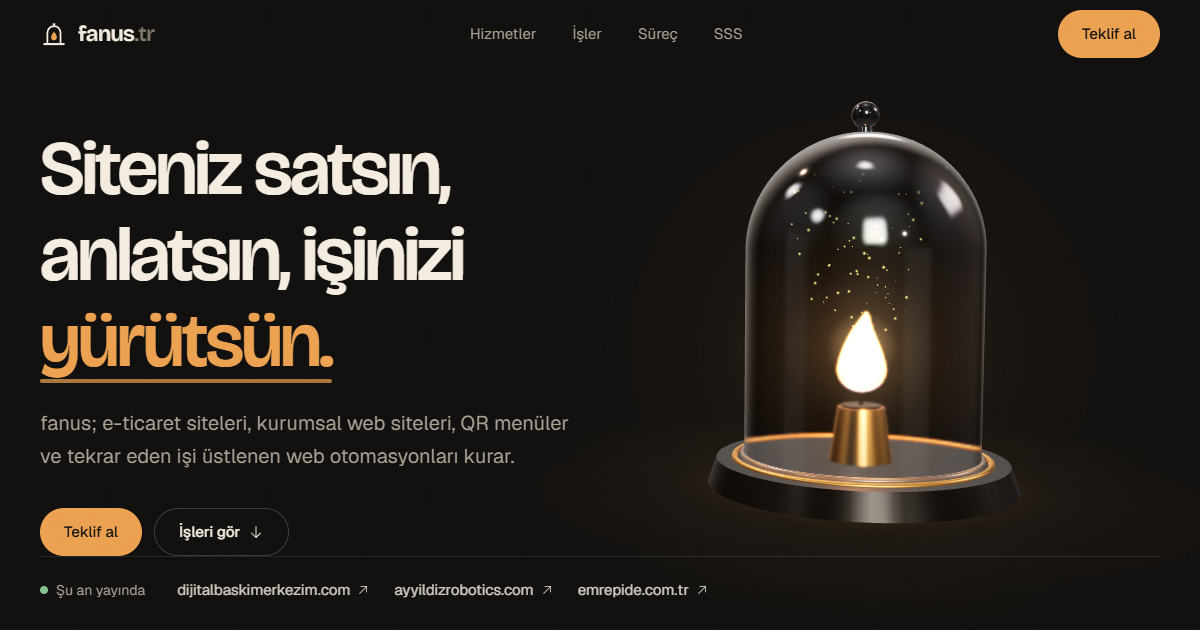
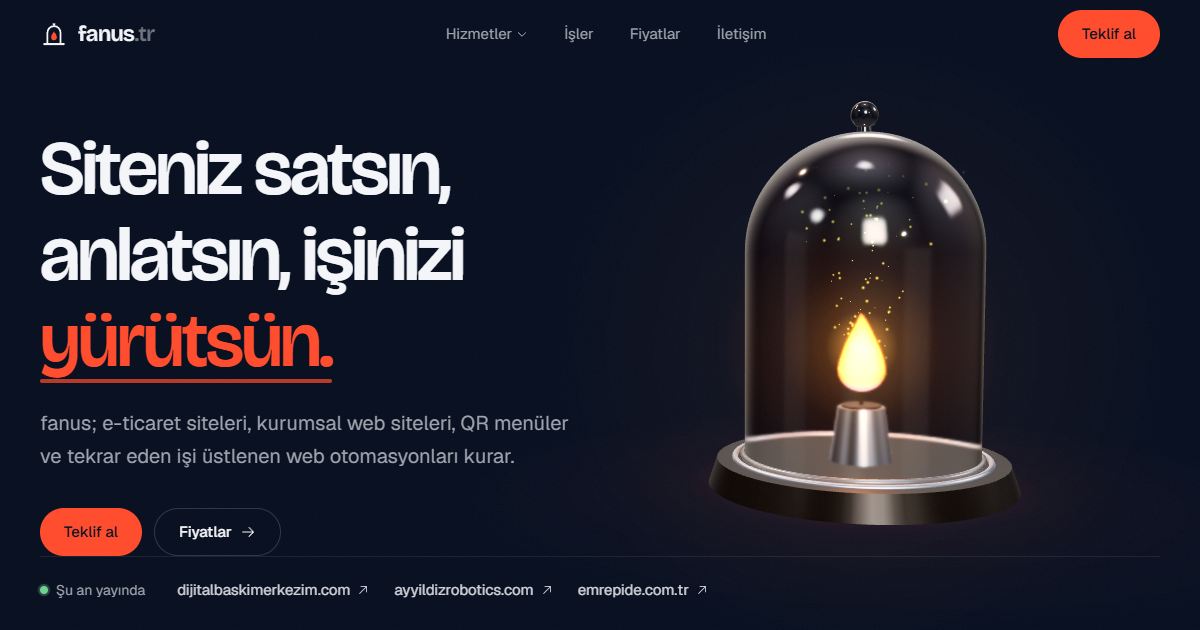
Tema D varsayılan: koyu lacivert + kor kırmızısı; ikon ve paylaşım görseli yeni renklerle

diff --git a/src/site/tema.ts b/src/site/tema.ts
@@ -1,4 +1,5 @@
-// Renk teması denemesi (20 Ekim 2026). Karar verilince VARSAYILAN_TEMA ona çekilir, seçici kapanır.
+// Renk temaları. Seçilen (20 Ekim 2026): D, koyu lacivert zemin + kor kırmızısı, nötr grafit kartlar.
+// Diğerleri yalnız geliştirmedeki seçicide karşılaştırma için durur.
 
 export const TEMALAR = [
   { kod: "eski", ad: "Eski (kahve)", zemin: "#0d0c0b", vurgu: "#eba04e" },
@@ -11,7 +12,7 @@ export const TEMALAR = [
 export type TemaKodu = (typeof TEMALAR)[number]["kod"];
 
 /** Sitede kullanılan tema (seçici kapalıyken herkes bunu görür). */
-export const VARSAYILAN_TEMA: TemaKodu = "eski";
+export const VARSAYILAN_TEMA: TemaKodu = "lacivert-kor";
 
 /** Tema seçici yalnız geliştirmede ya da NEXT_PUBLIC_TEMA_SECICI=1 iken görünür. */
 export const TEMA_SECICI_ACIK = process.env.NODE_ENV === "development" || process.env.NEXT_PUBLIC_TEMA_SECICI === "1";

diff --git a/src/app/layout.tsx b/src/app/layout.tsx
@@ -37,7 +37,7 @@ export const metadata: Metadata = {
 };
 
 export const viewport: Viewport = {
-  themeColor: "#0d0c0b",
+  themeColor: "#050d1e",
   colorScheme: "dark",
 };
 

diff --git a/docs/tasarim-dili.md b/docs/tasarim-dili.md
@@ -8,15 +8,24 @@ Fanus, alevi rüzgârdan koruyan camdır. İşletmenin ışığı (emeği) inter
 büyütür, uzaktan görünür kılar. Görsel dil buradan gelir: koyu zemin, sıcak tek ışık, cam yansımaları.
 
 ## Renk (yalnız token)
-| Token | Değer | Kullanım |
+Seçilen tema (20 Ekim 2026): **D, koyu lacivert + kor kırmızısı** (`data-tema="lacivert-kor"`, `globals.css`).
+Sayfa zemini lacivert; kartlar ve iç paneller nötr grafit/siyah (lacivert yalnız zeminde). Diğer temalar (eski kahve,
+kor, gece, lacivert) yalnız geliştirmedeki seçicide karşılaştırma için durur (`src/site/tema.ts`).
+
+| Token | D değeri | Kullanım |
 |---|---|---|
-| `gece` / `gece-2..4` | #0d0c0b → #2a2621 | zemin ve yüzey katmanları |
-| `krem` | #f4ece0 | ana metin |
-| `soluk` | #a89f92 | ikincil metin (gecede 7,4:1) |
-| `silik` | #7d7468 | yalnız yer tutucu ve büyük yazı (4:1) |
-| `alev` (+ `alev-acik`, `alev-koyu`) | #eba04e | TEK vurgu: birincil düğme, vurgu kelime, ışık |
-| `canli` | #86c28f | yalnız "yayında" durum noktası |
-| `cizgi`, `cizgi-guclu` | krem %10 / %20 | ayraç ve çerçeve |
+| `gece` | #050d1e | sayfa zemini (koyu lacivert), 3B sahnenin arkası |
+| `gece-2..4` | #111215 → #232428 | kartlar ve yükseltilmiş yüzeyler (nötr grafit) |
+| `cukur` | #09090b | kart içindeki gömülü paneller, form alanları |
+| `krem` | #f3f5f8 | ana metin (soğuk beyaz) |
+| `soluk` | #9ca1ab | ikincil metin |
+| `silik` | #6c7079 | yalnız yer tutucu ve büyük yazı |
+| `alev` (+ `alev-acik`, `alev-koyu`) | #ff4a2b | TEK vurgu: birincil düğme, vurgu kelime, ışık |
+| `canli` | #6fcf8f | yalnız "yayında" durum noktası |
+| `cizgi`, `cizgi-guclu` | beyaz %8 / %16 | ayraç ve çerçeve |
+
+3B sahnenin renkleri temaya göre `src/sahne/fanus3b.ts` › SAHNE_TEMALARI'nda (alev ortası sarı, kenarı kızıl; metal
+gümüş). Işık ve parlamalar elle renk yazmaz: CSS'te `color-mix(..., var(--color-alev) ...)`, GSAP'te `vurgu()`.
 
 İstisna: hizmet örneklerinin içindeki minyatür siteler (kurumsal site önizlemesi, QR menü telefonu) kendi
 kâğıt renklerini kullanır; bunlar müşterinin sitesini temsil eder, fanus'un paletini değil.

diff --git a/CLAUDE.md b/CLAUDE.md
@@ -50,5 +50,7 @@ yeniden kurulur (`SayfaEtkileri`). Fiyat ve paketler `src/site/icerik.ts` › PA
   (yatay şerit), SSS, teklif oluşturucu (WhatsApp/e-posta mesajı), altbilgi kelime markası. JSON-LD, site haritası,
   robots, paylaşım görseli, 404.
 - Çok sayfalı yapıya geçildi ve fiyatlar eklendi (20 Ekim 2026, Yusuf'un isteği).
+- Renk teması D seçildi (20 Ekim 2026): koyu lacivert zemin + kor kırmızısı, nötr grafit kartlar, sarı-kızıl alev.
+  Eski kahve tema "yapay zekâ ürünü gibi" bulundu. Tema seçici yalnız `npm run dev`'de sol altta.
 - Yayın: `docs/yayina-alma.md` (Coolify kurulu; hedef https://fanustr.ahmcloud.com, DNS kaydı Hostinger arızası
   nedeniyle bekliyor; sonra fanus.tr).
